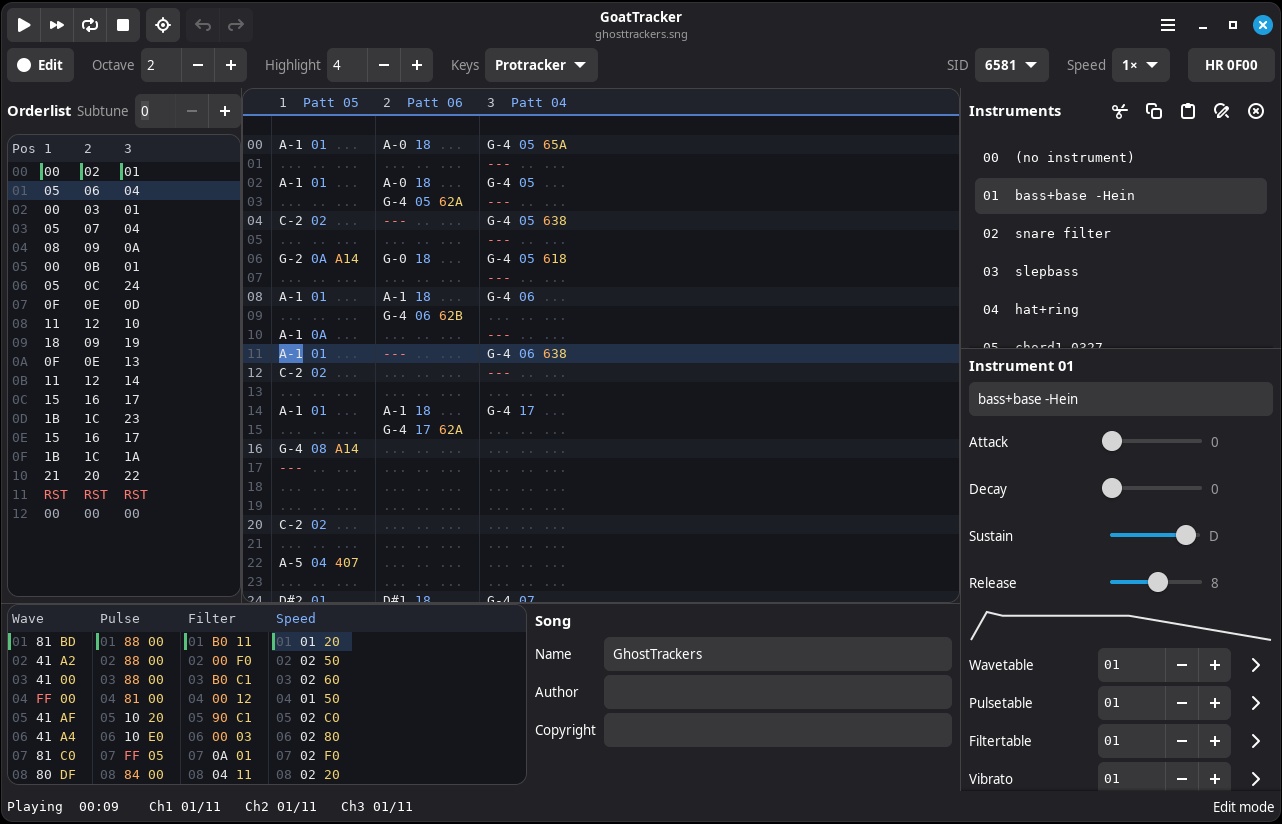
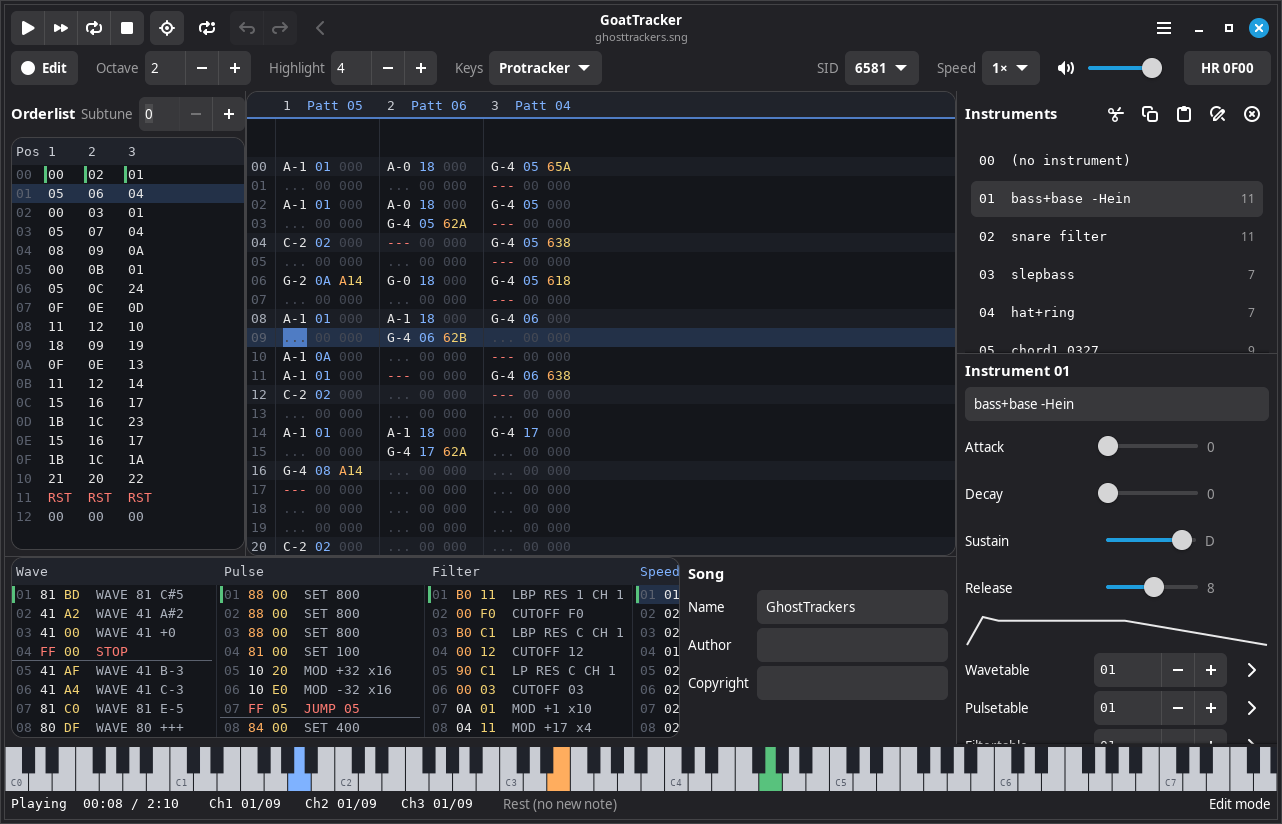
Update the README's main screenshot; let the tables scroll sideways
The table row descriptions made the window's minimum width 1335 pixels,
wider than its 1280 pixel default, so the right-hand side was cut off.
The tables now sit in a horizontally scrolling pane that follows the
cursor while editing tables, and the minimum width is back to 1245.

The main screenshot shows the current layout during playback, with the
piano keyboard, table descriptions, loop button and volume slider.

Claude-Session: https://claude.ai/code/session_01Rh9BFmLuPJBqapVh71LNhe

diff --git a/src/gtkui.c b/src/gtkui.c
@@ -1427,7 +1427,19 @@ static void onactivate(GtkApplication *application, gpointer data)
   gtk_paned_set_shrink_end_child(GTK_PANED(top), FALSE);
 
   // Tables and song information below them
-  gtk_box_append(GTK_BOX(bottom), framed(tablegrid));
+  {
+    // The tables scroll sideways when the window is too narrow for them
+    // (with row descriptions they are wider than everything else)
+    GtkWidget *scroll = gtk_scrolled_window_new();
+    GtkWidget *frame;
+
+    gtk_scrolled_window_set_policy(GTK_SCROLLED_WINDOW(scroll), GTK_POLICY_AUTOMATIC, GTK_POLICY_NEVER);
+    gtk_scrolled_window_set_propagate_natural_width(GTK_SCROLLED_WINDOW(scroll), TRUE);
+    gtk_scrolled_window_set_child(GTK_SCROLLED_WINDOW(scroll), tablegrid);
+    frame = framed(scroll);
+    gtk_widget_set_hexpand(frame, TRUE);
+    gtk_box_append(GTK_BOX(bottom), frame);
+  }
   gtk_box_append(GTK_BOX(bottom), songpanel);
   gtk_widget_set_margin_start(bottom, 6);
   gtk_widget_set_margin_bottom(bottom, 6);

diff --git a/src/gtkgrid.c b/src/gtkgrid.c
@@ -440,6 +440,16 @@ static void drawtables(GtkDrawingArea *area, cairo_t *cr, int width, int height,
     if (etpos - etview[etnum] >= rows) etview[etnum] = etpos - rows + 1;
     if (etpos < etview[etnum]) etview[etnum] = etpos;
     tablefollow = 0;
+
+    // ...and bring the edited table into view when the tables scroll sideways
+    {
+      GtkWidget *scroll = gtk_widget_get_ancestor(GTK_WIDGET(area), GTK_TYPE_SCROLLED_WINDOW);
+      if ((scroll) && (editmode == EDIT_TABLES))
+      {
+        GtkAdjustment *adj = gtk_scrolled_window_get_hadjustment(GTK_SCROLLED_WINDOW(scroll));
+        gtk_adjustment_clamp_page(adj, tblstart(etnum) * cellw, (tblstart(etnum) + tblwidth(etnum) + 1) * cellw);
+      }
+    }
   }
 
   fill(cr, 0, 0, width, height, col_bg);

diff --git a/README.md b/README.md
@@ -55,7 +55,7 @@ The three per-channel orderlists now run top to bottom like a sequencer, so the 
 
 Table commands and jumps are coloured, and a green bar marks where the selected instrument's pointer starts in each table.
 
-- **Rows are described** next to their hex values: `WAVE 41 +0`, `DELAY 3`, `SET 800`, `MOD +32 x16`, `LP RES C CH 1`, `JUMP 05`. **View → Describe Table Rows** turns the column off when space is short.
+- **Rows are described** next to their hex values: `WAVE 41 +0`, `DELAY 3`, `SET 800`, `MOD +32 x16`, `LP RES C CH 1`, `JUMP 05`. **View → Describe Table Rows** turns the column off; in a narrow window the tables scroll sideways instead.
 - **Rows nothing can reach are dimmed.** The editor follows every instrument's table pointers, the table commands in the patterns and the wavetable's own commands, so leftover data stands out. A line under each jump or stop shows where a run of rows ends.
 - **Edit Waveform…** in the wavetable's right-click menu sets a row's waveform with buttons for noise, pulse, saw, triangle, test, ring, sync and gate. The pencil next to the instrument's **1st frame wave** does the same.
 
